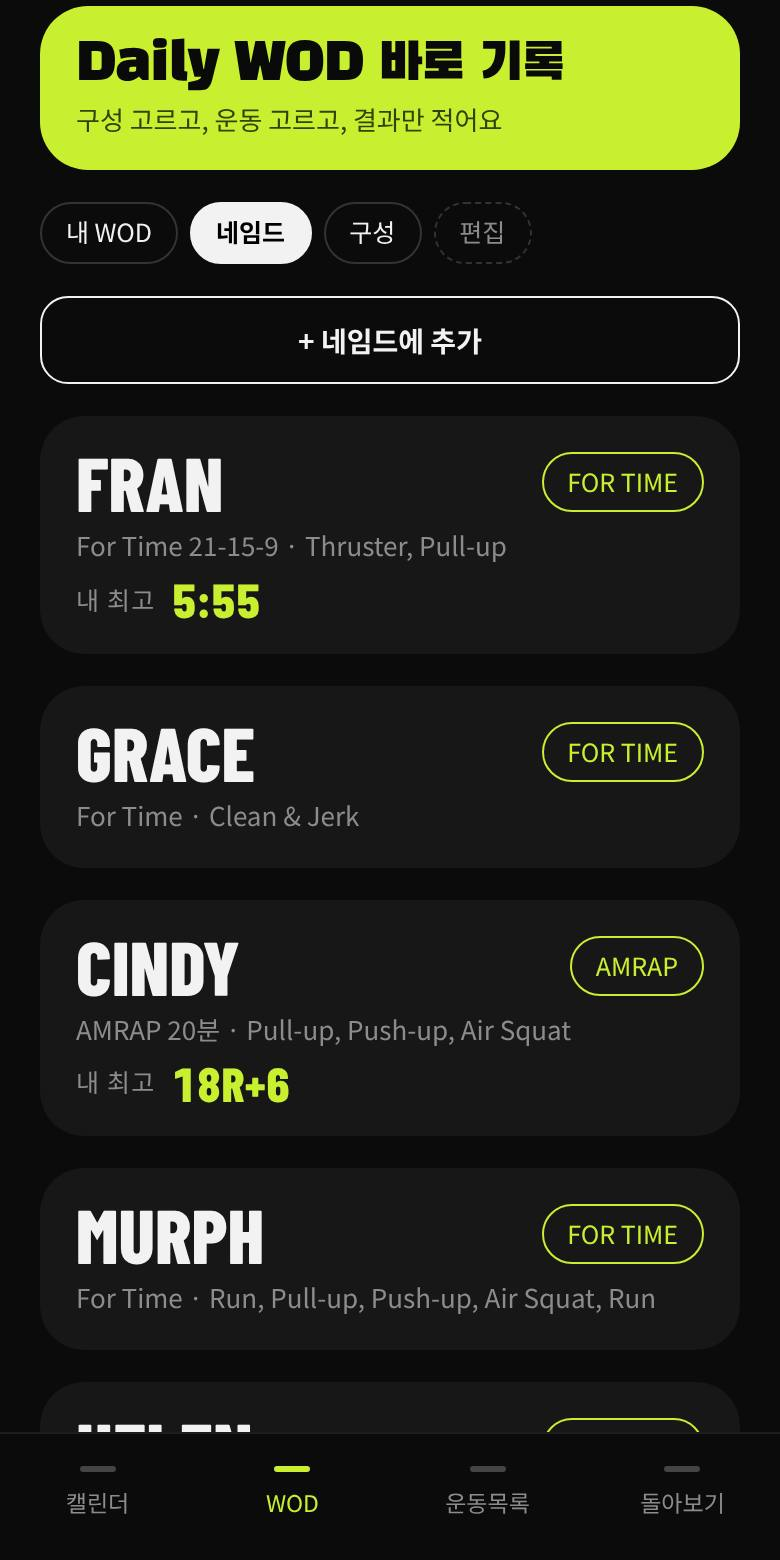
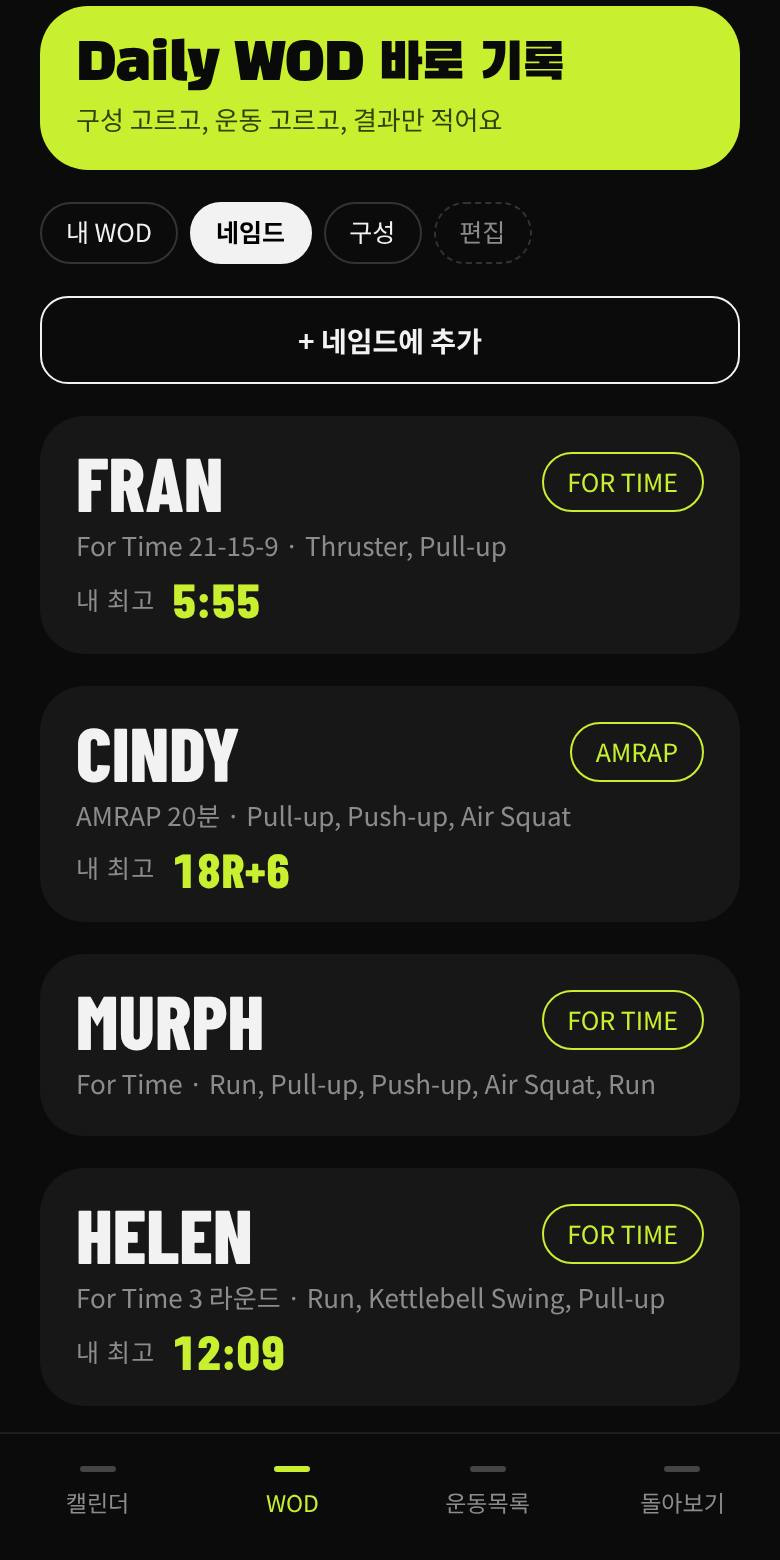
Start new installs with Fran and three exercises as examples
Claude-Session: https://claude.ai/code/session_019eoxjeUYsC1xCLQy9vy9QX

diff --git a/index.html b/index.html
@@ -478,15 +478,19 @@ const NAMED_OLD = [
   {id:'randy', name:'Randy', format:'fortime', moves:[['75회','파워스내치 34/25kg']]},
   {id:'nate', name:'Nate', format:'amrap', cap:20, moves:[['2회','머슬업'],['4회','핸드스탠드 푸시업'],['8회','케틀벨 스윙 32/24kg']]}
 ].map(w => ({...w, named:true, moves:w.moves.map(([a,n]) => ({a, n:enName(n)}))}));
-const NAMED = NAMED_OLD.map(w => tplFromOld(w));
+/* 2026-10-19: a new user starts with one named WOD and three exercises as examples, and builds the rest while logging */
+const STARTER_EX = ['sq','bp','dl'], STARTER_NAMED = ['fran'];
+const starterExercises = () => seedExercises().filter(e => STARTER_EX.includes(e.id));
+const NAMED = NAMED_OLD.filter(w => STARTER_NAMED.includes(w.id)).map(w => tplFromOld(w));
 /* built-in named WODs plus the ones the user adds (state.named, editable) */
 const ownNamed = () => state.named.filter(x => !NAMED.some(w => w.id === x.id));
 /* an edited built-in is kept in state.named under the same id and replaces the original */
+const hiddenN = () => state.hiddenNamed.filter(id => NAMED.some(w => w.id === id));
 const allNamed = () => [...NAMED.filter(w => !state.hiddenNamed.includes(w.id)).map(w => state.named.find(x => x.id === w.id) || w), ...ownNamed()];
 /* WOD tabs: "mine" and "named" are the starting tabs; both can be renamed and the user can add more (e.g. 수영 세트) */
 const DEF_WOD_TABS = [{k:'mine', label:'내 WOD'}, {k:'named', label:'네임드'}];
 const tabLabel = k => state.wodTabs.find(t => t.k === k)?.label || (k === 'named' ? '네임드' : '내 WOD');
-const tabList = k => k === 'named' ? [...ownNamed(), ...allNamed().filter(w => !w.own)] : state.mine.filter(w => (w.col || 'mine') === k);
+const tabList = k => k === 'named' ? [...ownNamed().filter(w => w.own), ...allNamed().filter(w => !w.own)] : state.mine.filter(w => (w.col || 'mine') === k);
 const seedMine = () => [
   {id:'m1', name:'월요일 파트너 WOD', format:'igyg', cap:24, rounds:10, moves:[{a:'10회',n:'Burpee'},{a:'15cal',n:'Row'}], note:'박스 수업에서 받은 WOD'},
   {id:'m2', name:'Burpee Death By', format:'deathby', moves:[{a:'매 분 +1',n:'Burpee'}]}
@@ -530,8 +534,9 @@ function seedPlans() {
 const KEY = 'setlog-v4';
 let state;
 /* a new install starts empty; the example data is only loaded on request (and for the guide pictures) */
-const freshState = () => migrate({exercises:seedExercises(), mine:[], sessions:[], plans:[], goal:4});
-const exampleState = () => { const st = migrate({exercises:seedExercises(), mine:seedMine(), sessions:seedSessions(), plans:seedPlans(), goal:4});
+const freshState = () => migrate({exV:2, exercises:starterExercises(), mine:[], sessions:[], plans:[], goal:4});
+/* the example data uses the full exercise list and keeps its other named WODs as the user's own */
+const exampleState = () => { const st = migrate({exV:2, exercises:seedExercises(), mine:seedMine(), named:NAMED_OLD.filter(w => !STARTER_NAMED.includes(w.id) && ['cindy','helen','murph'].includes(w.id)).map(w => tplFromOld(w)), sessions:seedSessions(), plans:seedPlans(), goal:4});
   const sq = st.exercises.find(e => e.id === 'sq'); if (sq) sq.rm = [{date:ymd(addDays(new Date(), -70)), v:'130', u:'kg'}, {date:ymd(addDays(new Date(), -21)), v:'140', u:'kg'}];
   return st; };
 function load() { try { const raw = localStorage.getItem(KEY); if (raw) { state = migrate(JSON.parse(raw)); return; } } catch (e) {} state = freshState(); }
@@ -569,7 +574,8 @@ function migrate(st) {
   st.cats.forEach(c => { if (c.k === 'wod' && c.label === '와드') c.label = 'WOD'; });
   for (const s of st.sessions) { if (s.title) s.title = s.title.replace(/^와드 · /, 'WOD · '); for (const it of s.items) if (it.type === 'wod' && (it.name === '오늘의 와드' || it.name === 'Workout of the Day')) it.name = 'Daily WOD'; }
   for (const s of st.sessions) s.items = s.items.map(it => it.type === 'wod' && !it.parts ? wodFromOld(it) : it);
-  for (const e of seedExercises()) if (['pc','hpc','pj','clean','psn','sqsn','ohs','dip','pistol','backext'].includes(e.id) && !st.exercises.some(x => x.id === e.id || x.name === e.name || x.name === e.ko)) st.exercises.push(e);
+  if (!st.exV) for (const e of seedExercises()) if (['pc','hpc','pj','clean','psn','sqsn','ohs','dip','pistol','backext'].includes(e.id) && !st.exercises.some(x => x.id === e.id || x.name === e.name || x.name === e.ko)) st.exercises.push(e);
+  st.exV = 2;
   const seeds = seedExercises();
   st.exercises.forEach(e => { const s0 = seeds.find(x => x.id === e.id); if (s0 && (e.name === s0.ko || e.name === s0.name)) { e.name = s0.name; e.ko = s0.ko; } });
   const toEn = m => { m.n = enName(m.n); };
@@ -1158,7 +1164,7 @@ function viewWod() {
       return `<button class="card" data-action="wod-detail" data-id="${w.id}" style="border:0;text-align:left;color:var(--ink);display:flex;flex-direction:column;gap:6px;width:100%">
         <div class="row between"><span class="n" style="font-size:38px;text-transform:uppercase">${esc(w.name)}</span><span class="row" style="gap:6px">${w.own ? '<span class="pill">직접 추가</span>' : w.edited ? '<span class="pill">수정함</span>' : ''}${w.parts[0]?.fmt.label ? `<span class="pill lime">${esc(w.parts[0].fmt.label.toUpperCase())}</span>` : ''}</span></div>
         <div class="sub">${esc(tplSummary(w))}</div>
-        ${b ? `<div class="row" style="gap:8px"><span class="eb">내 최고</span><span class="n" style="font-size:24px;color:var(--lime)">${esc(b.txt)}</span></div>` : ''}</button>`; }).join('') || '<div class="empty">저장한 WOD가 없어요.</div>') + (t === 'named' && state.hiddenNamed.length ? `<button class="btn out small" style="border-color:#333;color:var(--mut)" data-action="named-unhide">지운 기본 네임드 ${state.hiddenNamed.length}개 되돌리기</button>` : ''); }
+        ${b ? `<div class="row" style="gap:8px"><span class="eb">내 최고</span><span class="n" style="font-size:24px;color:var(--lime)">${esc(b.txt)}</span></div>` : ''}</button>`; }).join('') || '<div class="empty">저장한 WOD가 없어요.</div>') + (t === 'named' && hiddenN().length ? `<button class="btn out small" style="border-color:#333;color:var(--mut)" data-action="named-unhide">지운 기본 네임드 ${hiddenN().length}개 되돌리기</button>` : ''); }
   return `<div class="row between"><span class="eb">WOD</span><span class="pill">${allNamed().length + state.mine.length}개</span></div>
   <h1 class="disp" style="font-size:64px">WOD</h1>
   <button class="hero" data-action="record-daily" style="border:0;text-align:left;width:100%"><span class="disp" style="font-size:26px;display:block">Daily WOD 바로 기록</span><span class="sub" style="display:block;margin-top:4px">구성 고르고, 운동 고르고, 결과만 적어요</span></button>
@@ -1717,7 +1723,7 @@ const A = {
   },
   'del-ex': () => { if (ui.confirm !== 'del-ex') { ui.confirm = 'del-ex'; return refreshSheet(); } state.exercises = state.exercises.filter(e => e.id !== ui.exd.id); save(); ui.confirm = null; closeSheet(); render(true); toast('운동을 삭제했어요'); },
   // stats
-  wipe: () => { if (ui.confirm !== 'wipe') { ui.confirm = 'wipe'; return render(true); } state = migrate({exercises:seedExercises(), mine:[], named:[], sessions:[], plans:[], goal:state.goal, weekVol:state.weekVol, unit:state.unit, wodTabs:state.wodTabs, cats:state.cats, exCats:state.exCats, formats:state.formats, patterns:state.patterns, theme:state.theme}); ui.confirm = null; save(); ui.tab = 'cal'; render(); toast('모든 기록을 지웠어요'); },
+  wipe: () => { if (ui.confirm !== 'wipe') { ui.confirm = 'wipe'; return render(true); } state = migrate({exV:2, exercises:starterExercises(), mine:[], named:[], sessions:[], plans:[], goal:state.goal, weekVol:state.weekVol, unit:state.unit, wodTabs:state.wodTabs, cats:state.cats, exCats:state.exCats, formats:state.formats, patterns:state.patterns, theme:state.theme}); ui.confirm = null; save(); ui.tab = 'cal'; render(); toast('모든 기록을 지웠어요'); },
   export: () => {
     const blob = new Blob([JSON.stringify({app:'setlog', v:1, saved:new Date().toISOString(), state}, null, 1)], {type:'application/json'});
     const a = document.createElement('a'); a.href = URL.createObjectURL(blob); a.download = `setlog-backup-${TODAY()}.json`; document.body.appendChild(a); a.click(); a.remove();

diff --git a/sw.js b/sw.js
@@ -1,4 +1,4 @@
-const C = 'setlog-1792380448024';
+const C = 'setlog-1792382426087';
 const CORE = ['./', 'index.html', 'manifest.webmanifest', 'icon-192.png', 'icon-512.png', 'apple-touch-icon.png', 'guide/1.jpg', 'guide/2.jpg', 'guide/3.jpg', 'guide/4.jpg', 'guide/5.jpg'];
 self.addEventListener('install', e => { e.waitUntil(caches.open(C).then(c => c.addAll(CORE)).then(() => self.skipWaiting())); });
 self.addEventListener('activate', e => { e.waitUntil(caches.keys().then(ks => Promise.all(ks.filter(k => k !== C).map(k => caches.delete(k)))).then(() => self.clients.claim())); });
